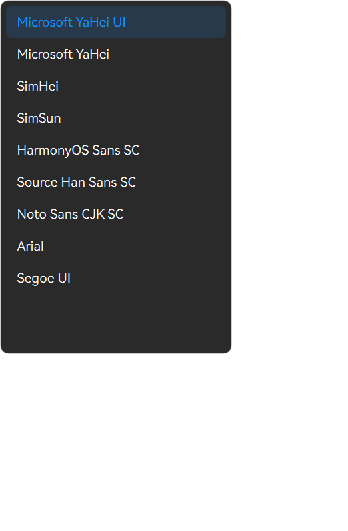
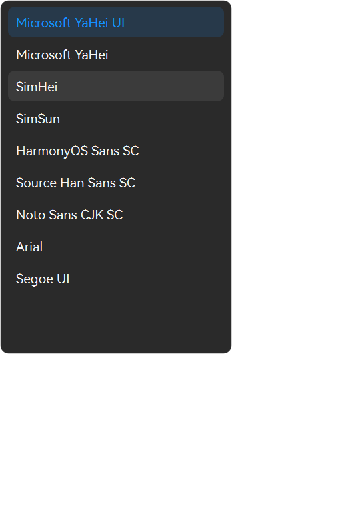
v1.0.11：弹窗列表悬停轻反馈（自绘 delegate）
- QSS 的 QListView::item:hover 在自管弹窗里实测不参与绘制
  （用 delegate 以 State_MouseOver 确定性渲染同一项，像素与常态完全一致）
  => 改为自绘 delegate：悬停 glass_hover、选中 accent_soft（与菜单行 MenuRow 一致）
- 判据：常态 vs 悬停态渲染像素必须不同（浅色 #ffffff -> #f0f0f0；深色 #2a2a2a -> #3b3b3b）
- 探针修正：采样点要取弹窗合成后的像素（透明视口上抓半透明色恒为 RGB=0）；
  确定性渲染时 opt.rect 用图片坐标、opt.widget 指向视图、底色用当前主题 popup_bg
- 文档：HANDOVER §9.81、知识库 §7 73 + §9.82

diff --git a/src/zhijian/ui/surface.py b/src/zhijian/ui/surface.py
@@ -40,6 +40,7 @@ from PySide6.QtWidgets import (
     QApplication,
     QFrame,
     QListView,
+    QStyledItemDelegate,
     QVBoxLayout,
     QWidget,
 )
@@ -156,6 +157,35 @@ def setup_surface(w: QWidget, radius: float = 8.0, pad: int = 6) -> QWidget:
     return w
 
 
+class _PopupItemDelegate(QStyledItemDelegate):
+    """弹窗列表项：hover / 选中的底色**由我们自己画**。
+
+    ⚠ 为什么不用 QSS 的 `QListView::item:hover`：在自管弹窗里实测**不生效**
+       （用 delegate 以 `State_MouseOver` 确定性渲染同一项，像素完全一样 ⇒ 样式表那条规则
+       根本没参与绘制）。菜单行 `MenuRow` 一直是自绘 hover 的 —— 统一走自绘，
+       既可控又和菜单一致。hover 用 `glass_hover`（轻反馈），选中用 `accent_soft`。
+    """
+
+    def paint(self, p, opt, index):
+        from PySide6.QtWidgets import QStyle, QStyleOptionViewItem
+
+        r = QRectF(opt.rect).adjusted(2.0, 1.0, -2.0, -1.0)
+        selected = bool(opt.state & QStyle.State_Selected)
+        hovered = bool(opt.state & QStyle.State_MouseOver)
+        p.save()
+        p.setRenderHint(QPainter.Antialiasing, True)
+        if selected or hovered:
+            p.setPen(Qt.NoPen)
+            p.setBrush(qt_color(P.get("accent_soft", "#0080F526") if selected
+                                else P.get("glass_hover", "#0000000F")))
+            p.drawRoundedRect(r, 6.0, 6.0)
+        p.setPen(qt_color(P.get("accent", "#0080F5") if selected
+                          else P.get("text", "#1D2129")))
+        p.drawText(r.adjusted(8.0, 0.0, -8.0, 0.0), Qt.AlignLeft | Qt.AlignVCenter,
+                   str(index.data(Qt.DisplayRole) or ""))
+        p.restore()
+
+
 class SurfacePopup(Surface, QWidget):
     """下拉框的弹窗（**完全自管**，不用 Qt 的 QComboBoxPrivateContainer）。
 
@@ -180,11 +210,26 @@ class SurfacePopup(Surface, QWidget):
         self._view.setHorizontalScrollBarPolicy(Qt.ScrollBarAlwaysOff)
         self._view.setVerticalScrollBarPolicy(Qt.ScrollBarAsNeeded)
         # 列表自己**透明**：圆角卡片由 Surface 画，子控件画不出方角
+        # ⚠ hover 反馈（用户："QQ 里鼠标放上去不点也有轻反馈，颜色稍深，你的没有"）：
+        #    控制栏按钮/导航栏/播放列表都有，弹窗列表**漏了** —— 这是"同一类控件
+        #    该有一致反馈"的问题，不是某个列表的问题。
+        #    ⚠ `:hover` 必须写在 `:selected` **前面**：两者选择器权重相同，
+        #       后写的赢；否则悬停在选中项上会把选中态盖掉。
         self._view.setStyleSheet(
             "QListView{background:transparent;border:none;outline:none;}"
             "QListView::item{min-height:26px;padding:3px 8px;border-radius:6px;}"
+            "QListView::item:hover{background:%s;color:%s;}"
             "QListView::item:selected{background:%s;color:%s;}"
-            % (css(P.get("accent_soft", "#0080F526")), P.get("accent", "#0080F5")))
+            "QListView::item:selected:hover{background:%s;color:%s;}"
+            % (css(P.get("glass_hover", "#0000000F")), P.get("text", "#1D2129"),
+               css(P.get("accent_soft", "#0080F526")), P.get("accent", "#0080F5"),
+               css(P.get("accent_soft", "#0080F526")), P.get("accent", "#0080F5")))
+        # 让 `::item:hover` 真的触发：视图与视口都要开 hover 跟踪
+        self._view.setMouseTracking(True)
+        self._view.viewport().setMouseTracking(True)
+        self._view.viewport().setAttribute(Qt.WA_Hover, True)
+        # 底色（hover/选中）交给自绘 delegate —— QSS 的 ::item:hover 在这里不生效
+        self._view.setItemDelegate(_PopupItemDelegate(self._view))
         self._view.verticalScrollBar().setStyleSheet(slim_scrollbar_qss())
         lay = QVBoxLayout(self)
         lay.setContentsMargins(self.SURFACE_PAD, self.SURFACE_PAD,

diff --git a/src/zhijian/ui/theme.py b/src/zhijian/ui/theme.py
@@ -665,9 +665,9 @@ def build_stylesheet() -> str:
     }}
     /* ⚠ 行高给足：min-height 24 + padding 2 时，13px 字的**降部会被裁掉**
        （实测截图里 "YaHei" 的下半截没了）。28 + 上下 4 才完整。 */
-    QComboBox QAbstractItemView::item {{
-        min-height: 28px; padding: 4px 10px; border-radius: 6px;
-    }}
+    /* ⚠ 这条规则对应的 Qt 原生下拉视图**已经不用了**（弹窗改由 SurfacePopup 自管，
+        hover/选中样式在 surface.py 里统一写）。留个空注释说明，避免以后有人以为
+        "下拉样式写在这里"而改错地方。 */
     /* ⚠ 弹窗里的滚动条**不能贴到边**：它会以方形画到右下角，
        把圆角切掉的那个角重新填成不透明（实测右下角 alpha=176）。
        注意选择器要**同时**覆盖 container 与 view 两种父子关系 ——

diff --git a/scripts/_installer_shot.py b/scripts/_installer_shot.py
@@ -25,7 +25,7 @@ OUT = os.path.join(ROOT, "docs", "04-验收证据")
 def main():
     app = QApplication(sys.argv[:1])
     wi.hide_own_console()
-    setup = os.path.join(ROOT, "output", "至简Player-Setup-1.0.10.exe")
+    setup = os.path.join(ROOT, "output", "至简Player-Setup-1.0.11.exe")
     if not os.path.isfile(setup):
         print("找不到安装包")
         return 2

diff --git a/scripts/47-accept-installer.py b/scripts/47-accept-installer.py
@@ -100,7 +100,7 @@ def reg_key_exists(path: str) -> bool:
 def main():
     app = QApplication(sys.argv[:1])
     wi.hide_own_console()
-    setup = os.path.join(ROOT, "output", "至简Player-Setup-1.0.10.exe")
+    setup = os.path.join(ROOT, "output", "至简Player-Setup-1.0.11.exe")
     if not os.path.isfile(setup):
         log(f"找不到安装包: {setup}")
         return 2

diff --git a/src/zhijian/__init__.py b/src/zhijian/__init__.py
@@ -1,6 +1,6 @@
 """至简Player —— 三合一全能媒体查看器。"""
 
-__version__ = "1.0.10"
+__version__ = "1.0.11"
 APP_NAME = "至简Player"
 APP_ID = "zhijian.player"
 ORG_NAME = "ZhiJian"

diff --git a/packaging/installer.py b/packaging/installer.py
@@ -34,7 +34,7 @@ from PySide6.QtWidgets import (
 
 APP_NAME = "至简Player"
 APP_ID = "ZhiJianPlayer"
-VERSION = "1.0.10"
+VERSION = "1.0.11"
 PUBLISHER = "ZhiJian"
 
 # 与程序内同源的配色

diff --git a/REVIEW.md b/REVIEW.md
@@ -84,6 +84,7 @@ except Exception:
 | **主题相关代码纪律** | 新代码里**不要再写** `setStyleSheet(f"color:{{P[...]}}")`：能静态化就用 `role`，动态的用 `themed()` 登记 |
 | **弹层纪律** | 任何"浮在别的界面之上"的面板（菜单/下拉/提示）底色必须用**不透明**的 `popup_bg`，窗口设无边框+半透明，**并且加圆角遮罩**（`clip_rounded`）—— QSS 圆角只画在方窗口里，遮罩才是结构性保证；内部滚动条要留边距 |
 | **提示条纪律** | 不要用 Qt 原生 QToolTip（方窗口圆不了）；写 `setToolTip()` 即可，显示由应用级 `TooltipFilter` 接管 |
+| **交互反馈纪律** | 列表/菜单项的 hover 与选中**一律自绘**（QSS `::item:hover` 在自管弹窗里实测不参与绘制）；悬停=轻反馈 `glass_hover`，选中=`accent_soft` |
 | **浮层纪律（1.0.10 起）** | 任何浮层必须继承 `ui/surface.py` 的 `Surface`（或由 `SurfacePopup` 工厂创建）；**禁止** `setMask`、禁止直接用 `QMenu`/`QToolTip`/Qt 私有下拉容器 —— 由 `build\_check_surfaces.py` 静态扫描 + `audit_surfaces()` 运行时审计把关 |
 | **图标纪律** | 图标颜色是**烘进 pixmap** 的：换肤后必须重新 `setIcon`/`set_color`，只清缓存无效 |
 | **倒放（1.0.7）** | 先 `pause=yes` 再按真实 dt 精确后退；mpv 无负速度，`frame-back-step` 也撑不起帧率 |

diff --git a/README.md b/README.md
@@ -23,8 +23,8 @@
 
 | 交付物 | 路径 | 说明 |
 |---|---|---|
-| **安装包**（推荐） | `output/至简Player-Setup-1.0.10.exe` | 170 MB，双击即装。含安装向导（Qt 自写）+ 卸载程序；只写 HKCU，**不需要管理员** |
-| **绿色便携版** | `output/至简Player-Portable-1.0.10.zip` | 128 MB，解压即用，不安装不写注册表（含内置字体 23 MB） |
+| **安装包**（推荐） | `output/至简Player-Setup-1.0.11.exe` | 170 MB，双击即装。含安装向导（Qt 自写）+ 卸载程序；只写 HKCU，**不需要管理员** |
+| **绿色便携版** | `output/至简Player-Portable-1.0.11.zip` | 128 MB，解压即用，不安装不写注册表（含内置字体 23 MB） |
 | **源码启动** | [`run.bat`](run.bat) | 用 Python 直接跑（需要 `runtime/libmpv-2.dll`） |
 | **项目交接文档** | [`HANDOVER.md`](HANDOVER.md) | ⭐ 接手必读 |
 | 代码审查说明 | [`REVIEW.md`](REVIEW.md) | 已知问题清单 + 给审查者的请求 |
@@ -50,7 +50,7 @@
 ## 30 秒上手
 
 ```text
-双击 output\至简Player-Setup-1.0.10.exe   →  下一步  →  安装  →  完成
+双击 output\至简Player-Setup-1.0.11.exe   →  下一步  →  安装  →  完成
 ```
 
 装完双击任意视频/图片/音乐，或把文件/文件夹**直接拖进窗口**。

diff --git a/docs/03-运行报告.md b/docs/03-运行报告.md
@@ -479,6 +479,13 @@ powershell -NoProfile -ExecutionPolicy Bypass -File scripts\99-run-all-acceptanc
 而设置页布局本轮从"卡片"改成"间距 + 分割线"、内容变短 ⇒ 现象与"控件位置/焦点变化"
 一致；但我**尚未证实**，按未解决记录，下一轮补测（区分"探针假设过时"与"真回归"）。
 
+## 18. 第十二轮：弹窗悬停反馈（2026-10-11，v1.0.11）
+
+| 用户要求 | 根因 | 修法 / 判据 |
+|---|---|---|
+| 下拉弹窗列表要有"鼠标放上去的轻反馈"（QQ 那样） | 弹窗列表只有选中态、**没有 hover**；且 QSS 的 `QListView::item:hover` 在自管弹窗里**不参与绘制**（确定性渲染证明：`State_MouseOver` 与常态像素一致） | 改**自绘 delegate**（悬停 `glass_hover`、选中 `accent_soft`，与菜单行一致）；判据：常态 `#ffffff` → 悬停 `#f0f0f0` |
+| 附带 | 探针两个坑：采样视口（透明）导致 RGB 恒 0；确定性渲染时 `opt.rect` 用了视口坐标导致绘制落图外 | 已修，并写进知识库（判据本身也要能被证伪） |
+
 ### 已知边界（如实记录）
 
 1. **只支持 Windows**：用了 DWM 圆角、Win32 无边框命中测试、SendInput 验收。
